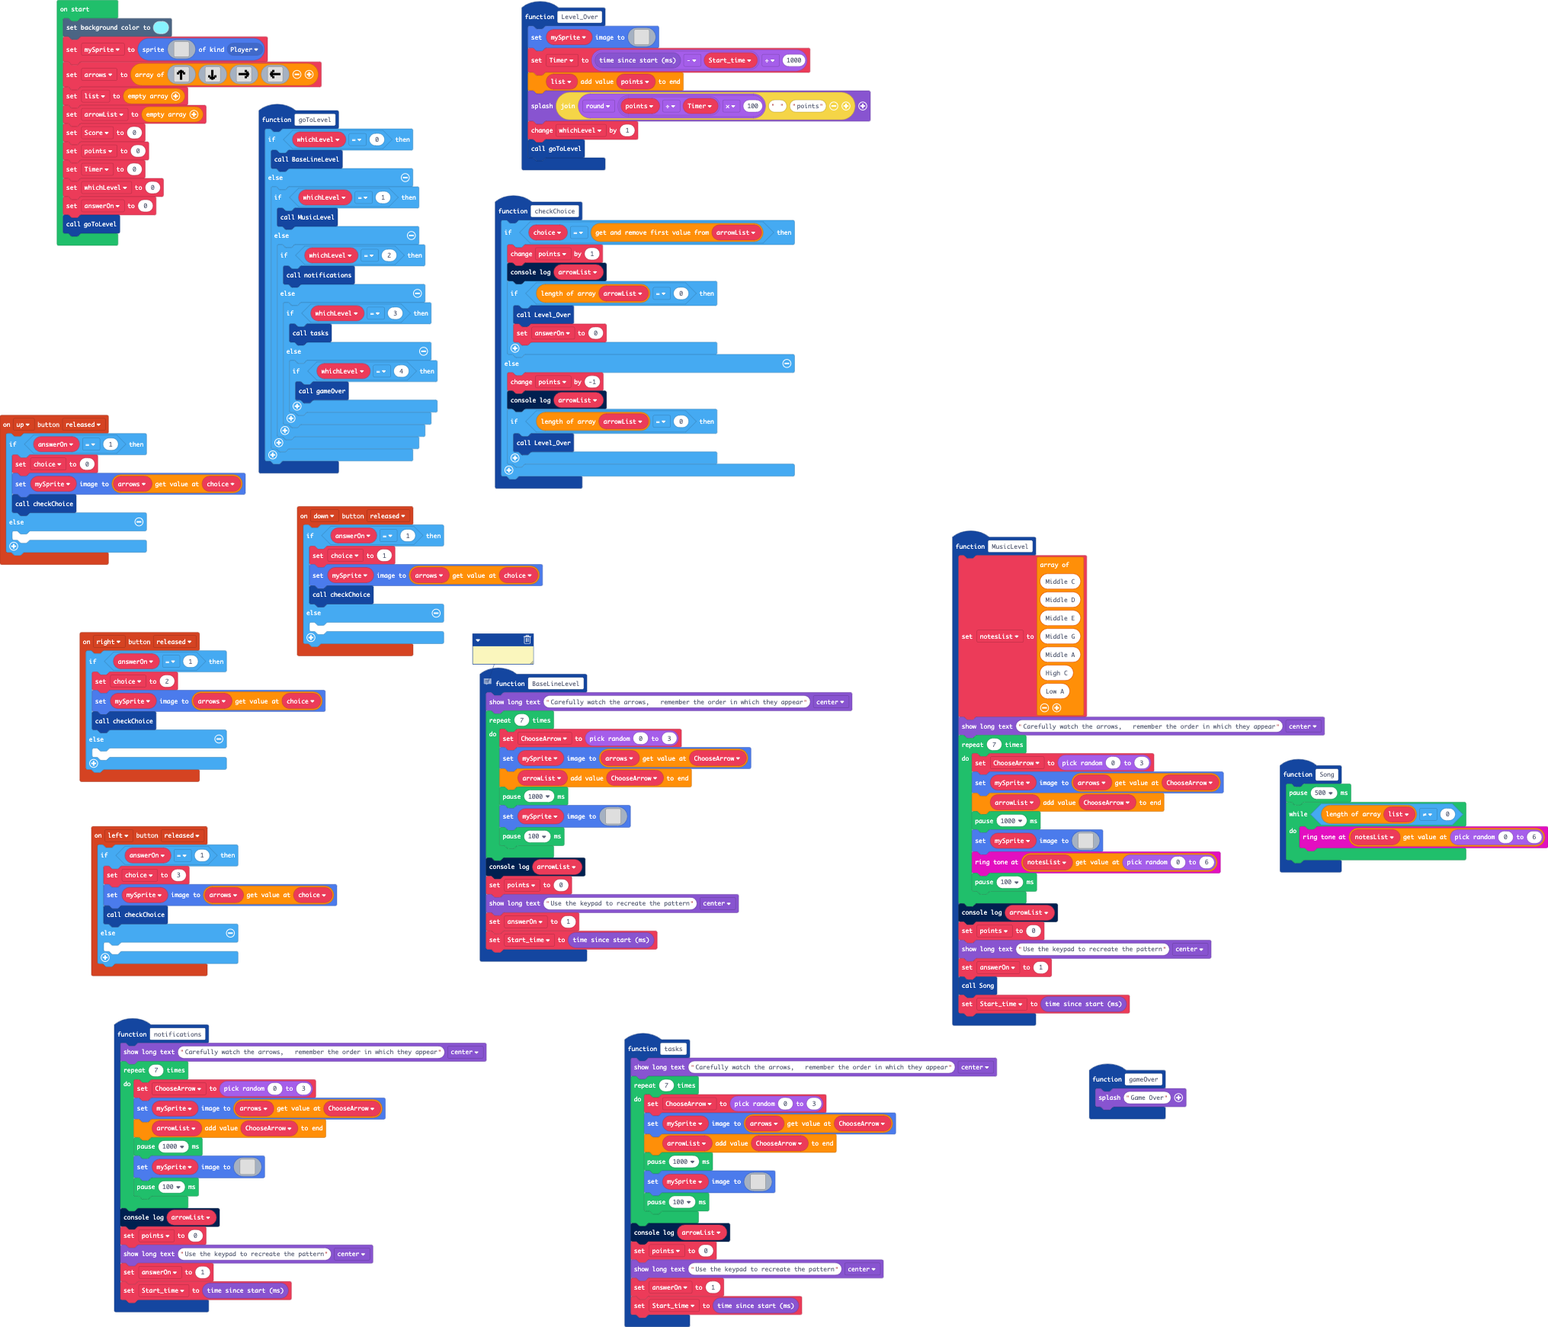
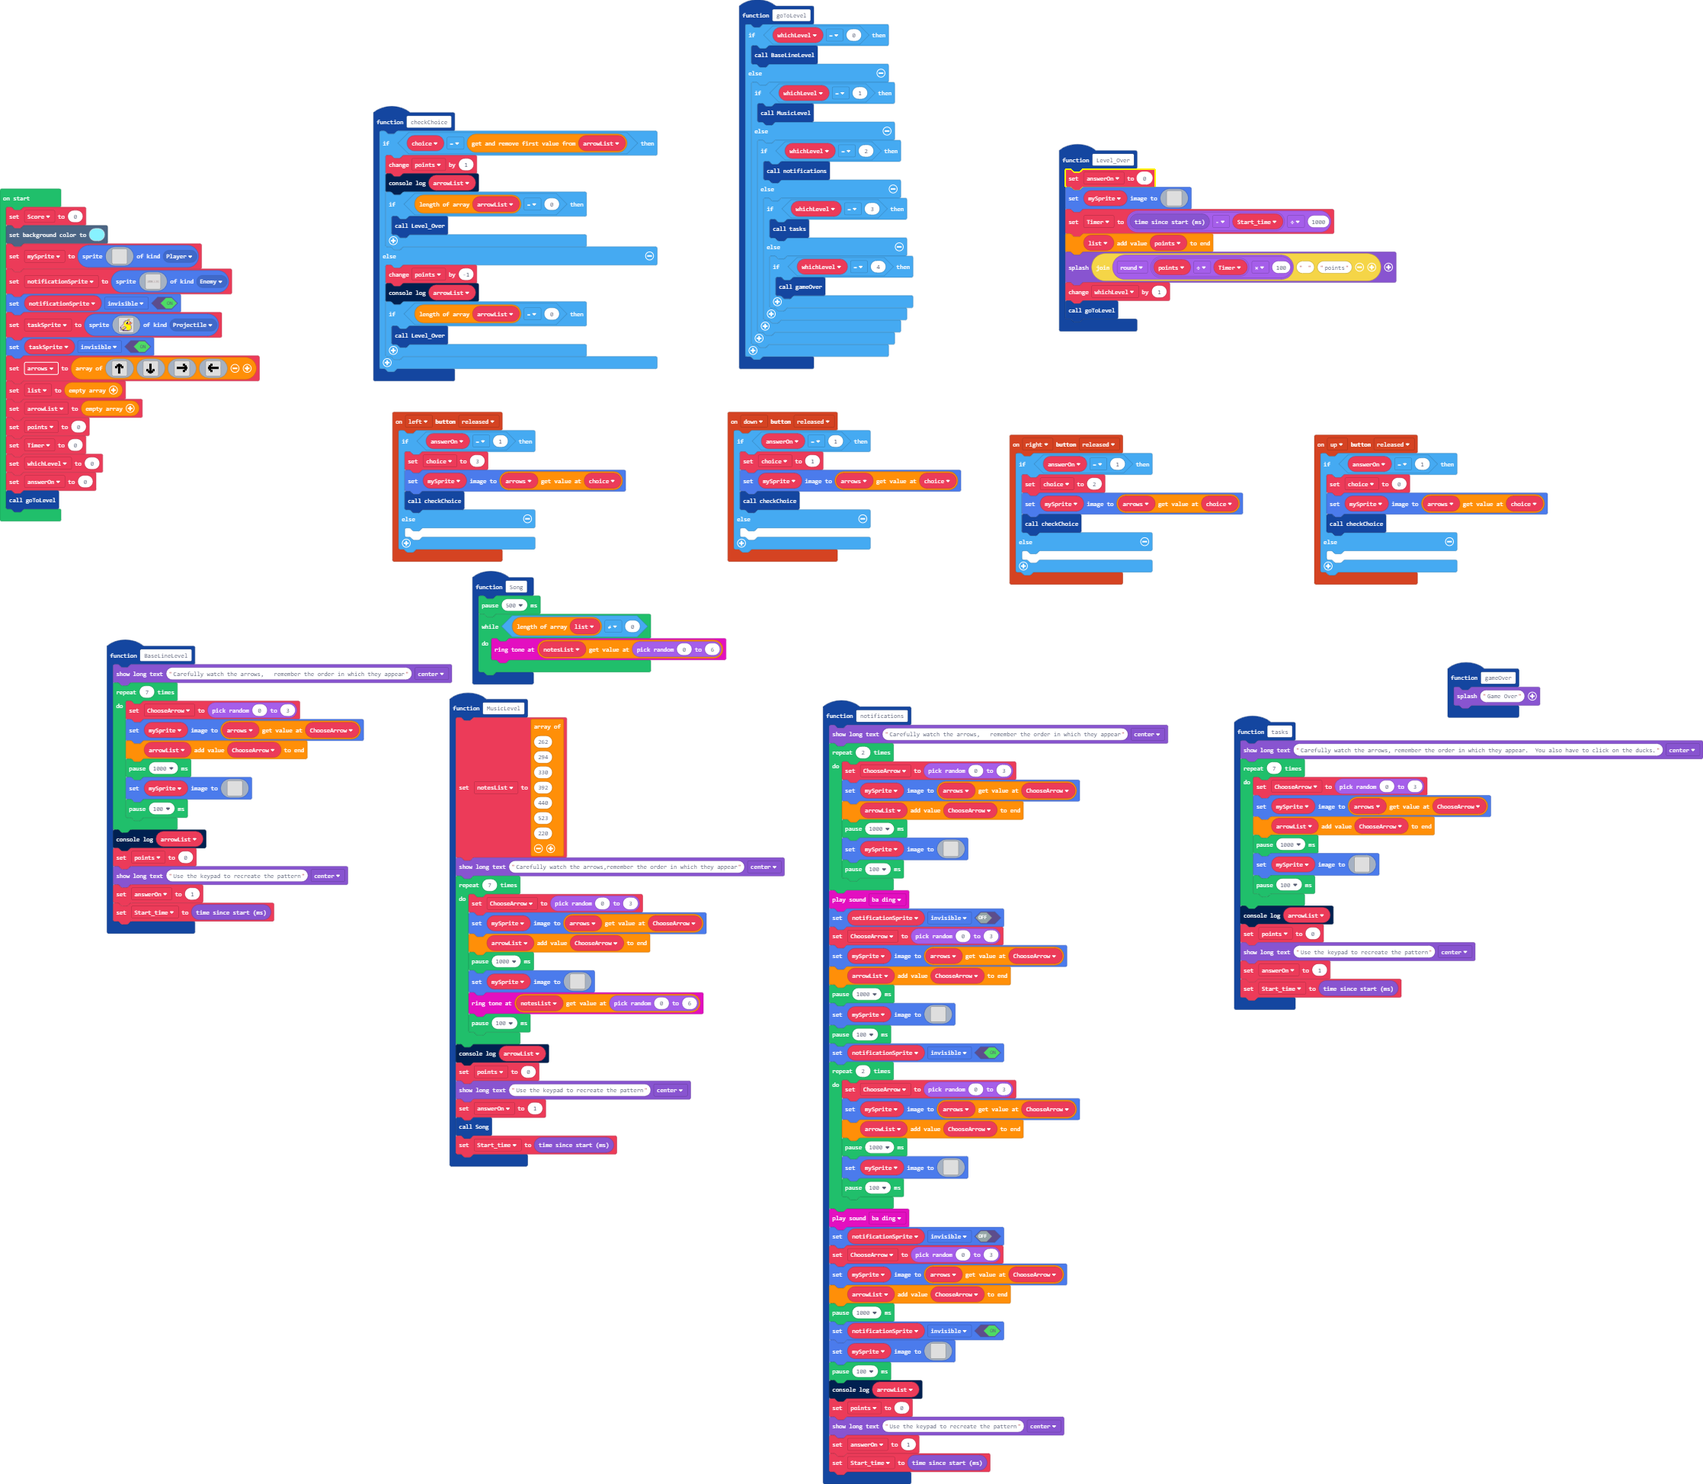
added notifications

diff --git a/main.ts b/main.ts
@@ -7,79 +7,12 @@ controller.up.onEvent(ControllerButtonEvent.Released, function () {
     	
     }
 })
-function notifications () {
-    game.showLongText("Carefully watch the arrows,   remember the order in which they appear", DialogLayout.Center)
-    for (let index = 0; index < 7; index++) {
-        ChooseArrow = Math.randomRange(0, 3)
-        mySprite.setImage(arrows[ChooseArrow])
-        arrowList.push(ChooseArrow)
-        pause(1000)
-        mySprite.setImage(img`
-. . . . . . . . . . . . . . . . 
-. . . . . . . . . . . . . . . . 
-. . . . . . . . . . . . . . . . 
-. . . . . . . . . . . . . . . . 
-. . . . . . . . . . . . . . . . 
-. . . . . . . . . . . . . . . . 
-. . . . . . . . . . . . . . . . 
-. . . . . . . . . . . . . . . . 
-. . . . . . . . . . . . . . . . 
-. . . . . . . . . . . . . . . . 
-. . . . . . . . . . . . . . . . 
-. . . . . . . . . . . . . . . . 
-. . . . . . . . . . . . . . . . 
-. . . . . . . . . . . . . . . . 
-. . . . . . . . . . . . . . . . 
-. . . . . . . . . . . . . . . . 
-`)
-        pause(100)
-    }
-    console.log(arrowList)
-    points = 0
-    game.showLongText("Use the keypad to recreate the pattern", DialogLayout.Center)
-    answerOn = 1
-    Start_time = game.runtime()
-}
-function tasks () {
-    game.showLongText("Carefully watch the arrows,   remember the order in which they appear", DialogLayout.Center)
-    for (let index = 0; index < 7; index++) {
-        ChooseArrow = Math.randomRange(0, 3)
-        mySprite.setImage(arrows[ChooseArrow])
-        arrowList.push(ChooseArrow)
-        pause(1000)
-        mySprite.setImage(img`
-. . . . . . . . . . . . . . . . 
-. . . . . . . . . . . . . . . . 
-. . . . . . . . . . . . . . . . 
-. . . . . . . . . . . . . . . . 
-. . . . . . . . . . . . . . . . 
-. . . . . . . . . . . . . . . . 
-. . . . . . . . . . . . . . . . 
-. . . . . . . . . . . . . . . . 
-. . . . . . . . . . . . . . . . 
-. . . . . . . . . . . . . . . . 
-. . . . . . . . . . . . . . . . 
-. . . . . . . . . . . . . . . . 
-. . . . . . . . . . . . . . . . 
-. . . . . . . . . . . . . . . . 
-. . . . . . . . . . . . . . . . 
-. . . . . . . . . . . . . . . . 
-`)
-        pause(100)
-    }
-    console.log(arrowList)
-    points = 0
-    game.showLongText("Use the keypad to recreate the pattern", DialogLayout.Center)
-    answerOn = 1
-    Start_time = game.runtime()
-}
 function checkChoice () {
     if (choice == arrowList.shift()) {
         points += 1
         console.log(arrowList)
         if (arrowList.length == 0) {
             Level_Over()
-            answerOn = 0
         }
     } else {
         points += -1
@@ -94,9 +27,6 @@ function Song () {
     while (list.length != 0) {
         music.ringTone(notesList[Math.randomRange(0, 6)])
     }
-}
-function gameOver () {
-    game.splash("Game Over")
 }
 controller.left.onEvent(ControllerButtonEvent.Released, function () {
     if (answerOn == 1) {
@@ -117,6 +47,7 @@ controller.down.onEvent(ControllerButtonEvent.Released, function () {
     }
 })
 function Level_Over () {
+    answerOn = 0
     mySprite.setImage(img`
 . . . . . . . . . . . . . . . . 
 . . . . . . . . . . . . . . . . 
@@ -141,6 +72,9 @@ function Level_Over () {
     whichLevel += 1
     goToLevel()
 }
+function gameOver () {
+    game.splash("Game Over")
+}
 controller.right.onEvent(ControllerButtonEvent.Released, function () {
     if (answerOn == 1) {
         choice = 2
@@ -150,6 +84,39 @@ controller.right.onEvent(ControllerButtonEvent.Released, function () {
     	
     }
 })
+function tasks () {
+    game.showLongText("Carefully watch the arrows, remember the order in which they appear.  You also have to click on the ducks.", DialogLayout.Center)
+    for (let index = 0; index < 7; index++) {
+        ChooseArrow = Math.randomRange(0, 3)
+        mySprite.setImage(arrows[ChooseArrow])
+        arrowList.push(ChooseArrow)
+        pause(1000)
+        mySprite.setImage(img`
+. . . . . . . . . . . . . . . . 
+. . . . . . . . . . . . . . . . 
+. . . . . . . . . . . . . . . . 
+. . . . . . . . . . . . . . . . 
+. . . . . . . . . . . . . . . . 
+. . . . . . . . . . . . . . . . 
+. . . . . . . . . . . . . . . . 
+. . . . . . . . . . . . . . . . 
+. . . . . . . . . . . . . . . . 
+. . . . . . . . . . . . . . . . 
+. . . . . . . . . . . . . . . . 
+. . . . . . . . . . . . . . . . 
+. . . . . . . . . . . . . . . . 
+. . . . . . . . . . . . . . . . 
+. . . . . . . . . . . . . . . . 
+. . . . . . . . . . . . . . . . 
+`)
+        pause(100)
+    }
+    console.log(arrowList)
+    points = 0
+    game.showLongText("Use the keypad to recreate the pattern", DialogLayout.Center)
+    answerOn = 1
+    Start_time = game.runtime()
+}
 function goToLevel () {
     if (whichLevel == 0) {
         BaseLineLevel()
@@ -173,7 +140,7 @@ function goToLevel () {
 }
 function MusicLevel () {
     notesList = [262, 294, 330, 392, 440, 523, 220]
-    game.showLongText("Carefully watch the arrows,   remember the order in which they appear", DialogLayout.Center)
+    game.showLongText("Carefully watch the arrows,remember the order in which they appear", DialogLayout.Center)
     for (let index = 0; index < 7; index++) {
         ChooseArrow = Math.randomRange(0, 3)
         mySprite.setImage(arrows[ChooseArrow])
@@ -205,6 +172,116 @@ function MusicLevel () {
     game.showLongText("Use the keypad to recreate the pattern", DialogLayout.Center)
     answerOn = 1
     Song()
+    Start_time = game.runtime()
+}
+function notifications () {
+    game.showLongText("Carefully watch the arrows,   remember the order in which they appear", DialogLayout.Center)
+    for (let index = 0; index < 2; index++) {
+        ChooseArrow = Math.randomRange(0, 3)
+        mySprite.setImage(arrows[ChooseArrow])
+        arrowList.push(ChooseArrow)
+        pause(1000)
+        mySprite.setImage(img`
+. . . . . . . . . . . . . . . . 
+. . . . . . . . . . . . . . . . 
+. . . . . . . . . . . . . . . . 
+. . . . . . . . . . . . . . . . 
+. . . . . . . . . . . . . . . . 
+. . . . . . . . . . . . . . . . 
+. . . . . . . . . . . . . . . . 
+. . . . . . . . . . . . . . . . 
+. . . . . . . . . . . . . . . . 
+. . . . . . . . . . . . . . . . 
+. . . . . . . . . . . . . . . . 
+. . . . . . . . . . . . . . . . 
+. . . . . . . . . . . . . . . . 
+. . . . . . . . . . . . . . . . 
+. . . . . . . . . . . . . . . . 
+. . . . . . . . . . . . . . . . 
+`)
+        pause(100)
+    }
+    music.baDing.play()
+    notificationSprite.setFlag(SpriteFlag.Invisible, false)
+    ChooseArrow = Math.randomRange(0, 3)
+    mySprite.setImage(arrows[ChooseArrow])
+    arrowList.push(ChooseArrow)
+    pause(1000)
+    mySprite.setImage(img`
+. . . . . . . . . . . . . . . . 
+. . . . . . . . . . . . . . . . 
+. . . . . . . . . . . . . . . . 
+. . . . . . . . . . . . . . . . 
+. . . . . . . . . . . . . . . . 
+. . . . . . . . . . . . . . . . 
+. . . . . . . . . . . . . . . . 
+. . . . . . . . . . . . . . . . 
+. . . . . . . . . . . . . . . . 
+. . . . . . . . . . . . . . . . 
+. . . . . . . . . . . . . . . . 
+. . . . . . . . . . . . . . . . 
+. . . . . . . . . . . . . . . . 
+. . . . . . . . . . . . . . . . 
+. . . . . . . . . . . . . . . . 
+. . . . . . . . . . . . . . . . 
+`)
+    pause(100)
+    notificationSprite.setFlag(SpriteFlag.Invisible, true)
+    for (let index = 0; index < 2; index++) {
+        ChooseArrow = Math.randomRange(0, 3)
+        mySprite.setImage(arrows[ChooseArrow])
+        arrowList.push(ChooseArrow)
+        pause(1000)
+        mySprite.setImage(img`
+. . . . . . . . . . . . . . . . 
+. . . . . . . . . . . . . . . . 
+. . . . . . . . . . . . . . . . 
+. . . . . . . . . . . . . . . . 
+. . . . . . . . . . . . . . . . 
+. . . . . . . . . . . . . . . . 
+. . . . . . . . . . . . . . . . 
+. . . . . . . . . . . . . . . . 
+. . . . . . . . . . . . . . . . 
+. . . . . . . . . . . . . . . . 
+. . . . . . . . . . . . . . . . 
+. . . . . . . . . . . . . . . . 
+. . . . . . . . . . . . . . . . 
+. . . . . . . . . . . . . . . . 
+. . . . . . . . . . . . . . . . 
+. . . . . . . . . . . . . . . . 
+`)
+        pause(100)
+    }
+    music.baDing.play()
+    notificationSprite.setFlag(SpriteFlag.Invisible, false)
+    ChooseArrow = Math.randomRange(0, 3)
+    mySprite.setImage(arrows[ChooseArrow])
+    arrowList.push(ChooseArrow)
+    pause(1000)
+    notificationSprite.setFlag(SpriteFlag.Invisible, true)
+    mySprite.setImage(img`
+. . . . . . . . . . . . . . . . 
+. . . . . . . . . . . . . . . . 
+. . . . . . . . . . . . . . . . 
+. . . . . . . . . . . . . . . . 
+. . . . . . . . . . . . . . . . 
+. . . . . . . . . . . . . . . . 
+. . . . . . . . . . . . . . . . 
+. . . . . . . . . . . . . . . . 
+. . . . . . . . . . . . . . . . 
+. . . . . . . . . . . . . . . . 
+. . . . . . . . . . . . . . . . 
+. . . . . . . . . . . . . . . . 
+. . . . . . . . . . . . . . . . 
+. . . . . . . . . . . . . . . . 
+. . . . . . . . . . . . . . . . 
+. . . . . . . . . . . . . . . . 
+`)
+    pause(100)
+    console.log(arrowList)
+    points = 0
+    game.showLongText("Use the keypad to recreate the pattern", DialogLayout.Center)
+    answerOn = 1
     Start_time = game.runtime()
 }
 function BaseLineLevel () {
@@ -240,9 +317,9 @@ function BaseLineLevel () {
     answerOn = 1
     Start_time = game.runtime()
 }
-let notesList: number[] = []
-let Start_time = 0
 let ChooseArrow = 0
+let Start_time = 0
+let notesList: number[] = []
 let choice = 0
 let answerOn = 0
 let whichLevel = 0
@@ -251,7 +328,9 @@ let points = 0
 let arrowList: number[] = []
 let list: number[] = []
 let arrows: Image[] = []
+let notificationSprite: Sprite = null
 let mySprite: Sprite = null
+let Score = 0
 scene.setBackgroundColor(9)
 mySprite = sprites.create(img`
 . . . . . . . . . . . . . . . . 
@@ -271,6 +350,58 @@ mySprite = sprites.create(img`
 . . . . . . . . . . . . . . . . 
 . . . . . . . . . . . . . . . . 
 `, SpriteKind.Player)
+notificationSprite = sprites.create(img`
+. . . . . . . . . . . . . . . . . . . . . . . . . . . . . . . . . . . . . . . . . . . . . . . . . . . . . . . . . . . . . . . . . . . . . . . . . . . . . . . . . . . . . . . . . . . . . . . . . . . . . . . . . . . . . . . . . . . . . . . . . . . . . . . . . . . . . . . . . . . . . . . . . . . . . . . . . . . . . . . . 
+. f f f f f f f f f f f f f f f f f f f f f f f f f f f f f f f f f f f f f f f f f f f f f f f f f f f f f f f f f f f f f f f f f f f f f f f f f f f f f f f f f f f f f f f f f f f f f f f f f f f f f f f f f f f f f f f f f f f f f f f f f f f f f f f f f f f f f f f f f f f f f f f f f f f f f f f f f f f f f f . 
+. f d d d d d d d d d d d d d d d d d d d d d d d d d d d d d d d d d d d d d d d d d d d d d d d d d d d d d d d d d d d d d d d d d d d d d d d d d d d d d d d d d d d d d d d d d d d d d d d d d d d d d d d d d d d d d d d d d d d d d d d d d d d d d d d d d d d d d d d d d d d d d d d d d d d d d d d d d d d d f . 
+. f d d d d d d d d d d d d d d d d d d d d d d d d d d d d d d d d d d d d d d d d d d d d d d d d d d d d d d d d d d d d d d d d d d d d d d d d d d d d d d d d d d d d d d d d d d d d d d d d d d d d d d d d d d d d d d d d d d d d d d d d d d d d d d d d d d d d d d d d d d d d d d d d d d d d d d d d d d d d f . 
+. f d d d d d d d d f f f d d d d d d d d d d d d d d f f f f f f f f f f f f f d d d d d f f f f f f f f f f f d d d d d d f f f d d d d d d d d d d d d d d d d d d d d d d d d d d d d d d d d d d d d d d d d d d d d d d d d d d d d d d d d d d d d d d d d d d d d d d d d d d d d d d d d d d d d d d d d d d d d d f . 
+. f d d d d d d d d f f f d d d d d d d d d d d d d f f f f f f f f f f f f f f f d d d d f f f f f f f f f f f f f d d d d f f f d d d d d f f f d d d d d d d d d d d d d d d d d d d d d d d d d d d d d d d d d d d d d d d d d d d d d d d d d d d d d f f f d d d d d d f f f d d d d d d f f f d d d d d d d d d d d f . 
+. f d d d d d d d d f f f d d d d d d d d d d d d d f f f f f f f f f f f f f f f d d d f f f f f f f f f f f f f f d d d d f f f d d d d d f f f d d d d d d d d d d d d d d d d d d d d d d d d d d d d d d d d d d d d d d d d d d d d d d d d d d d d d f f f d d d d d d f f f d d d d d d f f f d d d d d d d d d d d f . 
+. f d d d d d d d d f f f d d d d d d d d d d d d d f f f d d d d d d d d f f f f d d d f f f f d d d d d d f f f f d d d d f f f d d d d f f f f d d d d d d d d d d d d d d d d d d d d d f f f d d d d d d f f f d d d d d d d d d d d d d d d d d d d d f f f d d d d d d f f f d d d d d d f f f d d d d d d d d d d d f . 
+. f d d d d d d d d f f f d d d d d d d d d d d d d f f f d d d d d d d d d f f f d d d f f f d d d d d d d d f f f d d d d f f f d d d f f f f f d d d d d d d d d d d d d d d d d d d d d f f f d d d d d d f f f d d d d d d d d d d d d d d d d d d d d f f f d d d d d d f f f d d d d d d f f f d d d d d d d d d d d f . 
+. f d d d d d d d d f f f d d d d d d d d d d d d d f f f d d d d d d d d d f f f d d d f f f d d d d d d d d f f f d d d d f f f d d f f f f f d d d d d d d d d d d d d d d d d d d d d d f f f d d d d d d f f f d d d d d d d d d d d d d d d d d d d d f f f d d d d d d f f f d d d d d d f f f d d d d d d d d d d d f . 
+. f d d d d d d d d f f f d d d d d d d d d d d d d f f f d d d d d d d d d f f f d d d f f f d d d d d d d d f f f d d d d f f f d f f f f f f d d d d d d d d d d d d d d d d d d d d d d d d d d d d d d d d d d d d d d d d d d d d d d d d d d d d d d f f f d d d d d d f f f d d d d d d f f f d d d d d d d d d d d f . 
+. f d d d d d d d d f f f d d d d d d d d d d d d d f f f d d d d d d d d d f f f d d d f f f d d d d d d d d f f f d d d d f f f f f f f f f d d d d d d d d d d d d d d d d d d d d d d d d d d d d d d d d d d d d d d d d d d d d d d d d d d d d d d d f f f d d d d d d f f f d d d d d d f f f d d d d d d d d d d d f . 
+. f d d d d d d d d f f f d d d d d d d d d d d d d f f f d d d d d d d d d f f f d d d f f f d d d d d d d d f f f d d d d f f f f f f f f d d d d d d d d d d d d d d d d d d d d d d d d d d d d f f f d d d d d d d d d d d d d d d d d d d d d d d d d f f f d d d d d d f f f d d d d d d f f f d d d d d d d d d d d f . 
+. f d d d d d d d d f f f d d d d d d d d d d d d d f f f d d d d d d d d d f f f d d d f f f d d d d d d d d f f f d d d d f f f f f f f d d d d d d d d d d d d d d d d d d d d d d d d d d d d d f f f d d d d d d d d d d d d d d d d d d d d d d d d d f f f d d d d d d f f f d d d d d d f f f d d d d d d d d d d d f . 
+. f d d d d d d d d f f f d d d d d d d d d d d d d f f f d d d d d d d d d f f f d d d f f f d d d d d d d d f f f d d d d f f f f f f f d d d d d d d d d d d d d d d d d d d d d d d d d d d d d f f f d d d d d d d d d d d d d d d d d d d d d d d d d f f f d d d d d d f f f d d d d d d f f f d d d d d d d d d d d f . 
+. f d d d d d d d d f f f d d d d d d d d d d d d d f f f d d d d d d d d d f f f d d d f f f d d d d d d d d f f f d d d d f f f f f f f f d d d d d d d d d d d d d d d d d d d d d d d d d d d d d d d d d d d d d d d d d d d d d d d d d d d d d d d d f f f d d d d d d f f f d d d d d d f f f d d d d d d d d d d d f . 
+. f d d d d d d d d f f f d d d d d d d d d d d d d f f f d d d d d d d d d f f f d d d f f f d d d d d d d d f f f d d d d f f f d f f f f f d d d d d d d d d d d d d d d d d d d d d d d d d d d d d d d d f f f d d d d d d d d d d d d d d d d d d d d f f f d d d d d d f f f d d d d d d f f f d d d d d d d d d d d f . 
+. f d d d d d d d d f f f d d d d d d d d d d d d d f f f d d d d d d d d d f f f d d d f f f d d d d d d d d f f f d d d d f f f d f f f f f f d d d d d d d d d d d d d d d d d d d d d d d d d d d d d d d f f f d d d d d d d d d d d d d d d d d d d d f f f d d d d d d f f f d d d d d d f f f d d d d d d d d d d d f . 
+. f d d d d d d d d f f f d d d d d d d d d d d d d f f f d d d d d d d d d f f f d d d f f f d d d d d d d d f f f d d d d f f f d d f f f f f f d d d d d d d d d d d d d d d d d d d d d f f f f d d d f f f f f d d d d d d d d d d d d d d d d d d d d f f f d d d d d d f f f d d d d d d f f f d d d d d d d d d d d f . 
+. f d d d d d d d d f f f d d d d d d d d d d d d d f f f d d d d d d d d d f f f d d d f f f d d d d d d d d f f f d d d d f f f d d d f f f f f f d d d d d d d d d d d d d d d d d d d d f f f f f f f f f f f f d d d d d d d d d d d d d d d d d d d d d d d d d d d d d d d d d d d d d d d d d d d d d d d d d d d d f . 
+. f d d d d d d d d f f f d d d d d d d d d d d d d f f f d d d d d d d d f f f f d d d f f f d d d d d d d d f f f d d d d f f f d d d d f f f f f d d d d d d d d d d d d d d d d d d d d f f f f f f f f f f f f d d d d d d d d d d d d d d d d d d d d d d d d d d d d d d d d d d d d d d d d d d d d d d d d d d d d f . 
+. f d d d d d d d d f f f d d d d d f f f d d d d d f f f f d d d d d d d f f f f d d d f f f f d d d d d d f f f f d d d d f f f d d d d d f f f f f d d d d d d d d d d d d d d d d d d d d f f f f f f f f f d d d d d d d d d d d d d d d d d d d d d d d d d d d d d d d d d d d d d d d d d d d d d d d d d d d d d d f . 
+. f d d d d d d d d f f f f f f f f f f f d d d d d f f f f f f f f f f f f f f f d d d f f f f f f f f f f f f f f d d d d f f f d d d d d d f f f f d d d d d d d d d d d d d d d d d d d d d d d d d d d d d d d d d d d d d d d d d d d d d d d d d d d f f f d d d d d d f f f d d d d d d f f f d d d d d d d d d d d f . 
+. f d d d d d d d d f f f f f f f f f f f d d d d d f f f f f f f f f f f f f f f d d d f f f f f f f f f f f f f f d d d d f f f d d d d d d f f f f d d d d d d d d d d d d d d d d d d d d d d d d d d d d d d d d d d d d d d d d d d d d d d d d d d d f f f d d d d d d f f f d d d d d d f f f d d d d d d d d d d d f . 
+. f d d d d d d d d f f f f f f f f f f f d d d d d d f f f f f f f f f f f f f d d d d d f f f f f f f f f f f f d d d d d f f f d d d d d d d d d d d d d d d d d d d d d d d d d d d d d d d d d d d d d d d d d d d d d d d d d d d d d d d d d d d d d f f f d d d d d d f f f d d d d d d f f f d d d d d d d d d d d f . 
+. f d d d d d d d d d d d d d d d d d d d d d d d d d d d d d d d d d d d d d d d d d d d d d d d d d d d d d d d d d d d d d d d d d d d d d d d d d d d d d d d d d d d d d d d d d d d d d d d d d d d d d d d d d d d d d d d d d d d d d d d d d d d d d d d d d d d d d d d d d d d d d d d d d d d d d d d d d d d d f . 
+. f d d d d d d d d d d d d d d d d d d d d d d d d d d d d d d d d d d d d d d d d d d d d d d d d d d d d d d d d d d d d d d d d d d d d d d d d d d d d d d d d d d d d d d d d d d d d d d d d d d d d d d d d d d d d d d d d d d d d d d d d d d d d d d d d d d d d d d d d d d d d d d d d d d d d d d d d d d d d f . 
+. f d d d d d d d d d d d d d d d d d d d d d d d d d d d d d d d d d d d d d d d d d d d d d d d d d d d d d d d d d d d d d d d d d d d d d d d d d d d d d d d d d d d d d d d d d d d d d d d d d d d d d d d d d d d d d d d d d d d d d d d d d d d d d d d d d d d d d d d d d d d d d d d d d d d d d d d d d d d d f . 
+. f f f f f f f f f f f f f f f f f f f f f f f f f f f f f f f f f f f f f f f f f f f f f f f f f f f f f f f f f f f f f f f f f f f f f f f f f f f f f f f f f f f f f f f f f f f f f f f f f f f f f f f f f f f f f f f f f f f f f f f f f f f f f f f f f f f f f f f f f f f f f f f f f f f f f f f f f f f f f f . 
+. . . . . . . . . . . . . . . . . . . . . . . . . . . . . . . . . . . . . . . . . . . . . . . . . . . . . . . . . . . . . . . . . . . . . . . . . . . . . . . . . . . . . . . . . . . . . . . . . . . . . . . . . . . . . . . . . . . . . . . . . . . . . . . . . . . . . . . . . . . . . . . . . . . . . . . . . . . . . . . . 
+`, SpriteKind.Enemy)
+notificationSprite.setFlag(SpriteFlag.Invisible, true)
+let taskSprite = sprites.create(img`
+. . . . . . . . . . b 5 b . . . 
+. . . . . . . . . b 5 b . . . . 
+. . . . . . b b b b b b . . . . 
+. . . . . b b 5 5 5 5 5 b . . . 
+. . . . b b 5 d 1 f 5 d 4 c . . 
+. . . . b 5 5 1 f f d d 4 4 4 b 
+. . . . b 5 5 d f b 4 4 4 4 b . 
+. . . b d 5 5 5 5 4 4 4 4 b . . 
+. . b d d 5 5 5 5 5 5 5 5 b . . 
+. b d d d d 5 5 5 5 5 5 5 5 b . 
+b d d d b b b 5 5 5 5 5 5 5 b . 
+c d d b 5 5 d c 5 5 5 5 5 5 b . 
+c b b d 5 d c d 5 5 5 5 5 5 b . 
+. b 5 5 b c d d 5 5 5 5 5 d b . 
+b b c c c d d d d 5 5 5 b b . . 
+. . . c c c c c c c c b b . . . 
+`, SpriteKind.Projectile)
+taskSprite.setFlag(SpriteFlag.Invisible, true)
 arrows = [img`
 . . . . . . . . . . . . . . . . 
 . . . . . . . . . . . . . . . . 
@@ -342,7 +473,6 @@ arrows = [img`
 `]
 list = []
 arrowList = []
-let Score = 0
 points = 0
 Timer = 0
 whichLevel = 0
